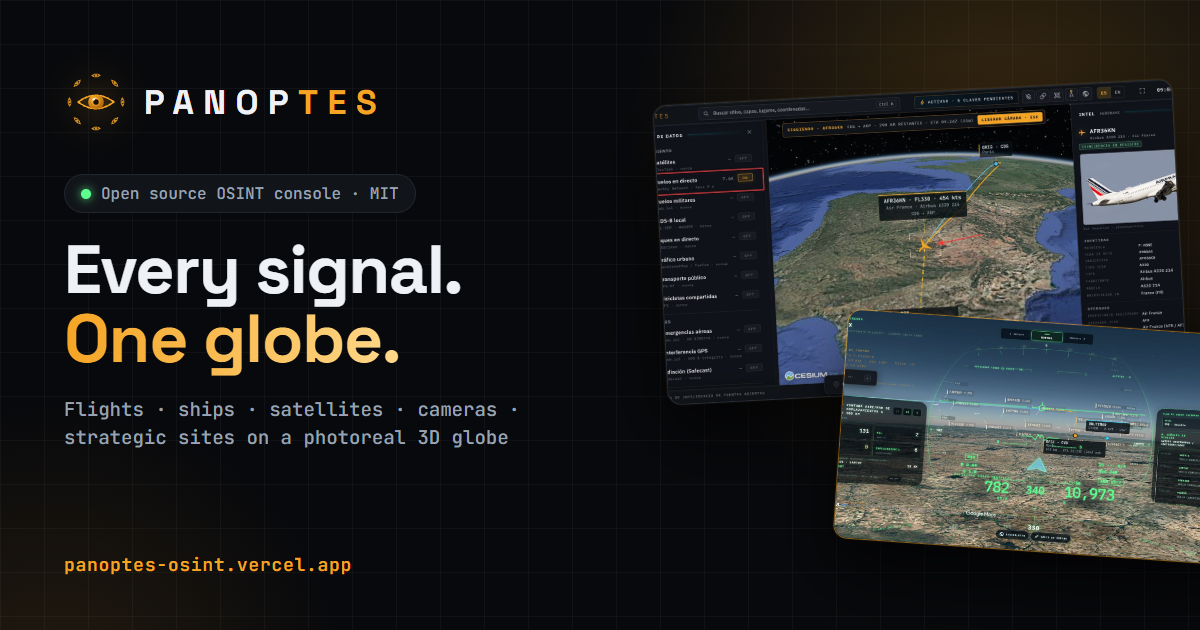
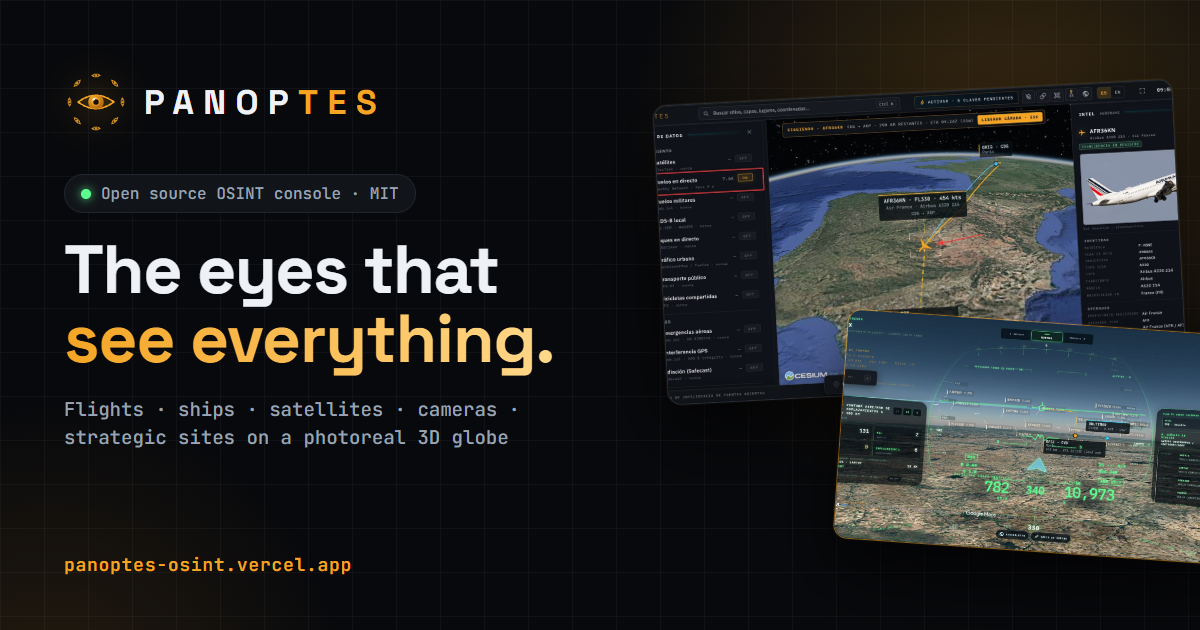
New tagline: Los ojos que todo lo ven / The eyes that see everything

Changed region(s): [[0.0308, 0.3921, 0.4625, 0.6032]]

diff --git a/landing/index.html b/landing/index.html
@@ -6,16 +6,16 @@
   <title>PANOPTES · Consola OSINT open source sobre un globo 3D</title>
   <meta name="description" content="PANOPTES: consola de inteligencia de fuentes abiertas. Vuelos, buques, satélites, cámaras públicas, bases militares e infraestructura crítica en un globo 3D fotorrealista que corre en tu máquina." />
   <meta name="theme-color" content="#08090c" />
-  <meta property="og:title" content="PANOPTES · Todas las señales. Un solo globo." />
+  <meta property="og:title" content="PANOPTES · Los ojos que todo lo ven." />
   <meta property="og:description" content="Consola OSINT open source: vuelos, buques, satélites, cámaras y capas estratégicas en un globo 3D fotorrealista." />
   <meta property="og:image" content="https://panoptes-osint.vercel.app/assets/og.png" />
   <meta property="og:image:width" content="1200" />
   <meta property="og:image:height" content="630" />
-  <meta property="og:image:alt" content="PANOPTES · Every signal. One globe." />
+  <meta property="og:image:alt" content="PANOPTES · The eyes that see everything." />
   <meta property="og:url" content="https://panoptes-osint.vercel.app/" />
   <meta property="og:type" content="website" />
   <meta name="twitter:card" content="summary_large_image" />
-  <meta name="twitter:title" content="PANOPTES · Todas las señales. Un solo globo." />
+  <meta name="twitter:title" content="PANOPTES · Los ojos que todo lo ven." />
   <meta name="twitter:description" content="Consola OSINT open source: vuelos, buques, satélites, cámaras y capas estratégicas en un globo 3D fotorrealista." />
   <meta name="twitter:image" content="https://panoptes-osint.vercel.app/assets/og.png" />
   <link rel="icon" type="image/svg+xml" href="assets/logo.svg" />
@@ -79,8 +79,8 @@
             <span data-i18n="hero.pill">Open source · MIT · corre en tu máquina</span>
           </div>
           <h1 class="rv">
-            <span data-i18n="hero.title1">Todas las señales.</span><br />
-            <span class="grad" data-i18n="hero.title2">Un solo globo.</span>
+            <span data-i18n="hero.title1">Los ojos que</span><br />
+            <span class="grad" data-i18n="hero.title2">todo lo ven.</span>
           </h1>
           <p class="hero-sub rv" data-i18n="hero.sub">
             PANOPTES es una consola de inteligencia de fuentes abiertas: vuelos, buques, satélites, cámaras públicas, bases militares, centrales nucleares e infraestructura crítica sobre un globo 3D fotorrealista. Sin cuentas, sin servidores ajenos, sin cajas negras.
@@ -420,7 +420,7 @@
   <footer class="footer">
     <div class="wrap foot">
       <div class="brand"><img src="assets/logo.svg" alt="" width="28" height="28" /><span class="brand-text">PANOP<span class="acc">TES</span></span></div>
-      <p class="mono foot-mid" data-i18n="foot.p">Todas las señales. Un solo globo. · Licencia MIT</p>
+      <p class="mono foot-mid" data-i18n="foot.p">Los ojos que todo lo ven. · Licencia MIT</p>
       <div class="foot-links">
         <a href="https://github.com/afsh4ck/panoptes" target="_blank" rel="noopener" aria-label="GitHub"><i class="ph ph-github-logo"></i></a>
         <a href="https://github.com/afsh4ck/panoptes/issues" target="_blank" rel="noopener" aria-label="Issues"><i class="ph ph-bug"></i></a>

diff --git a/landing/app.js b/landing/app.js
@@ -27,8 +27,8 @@
     'nav.gallery': 'Gallery',
     'nav.install': 'Install',
     'hero.pill': 'Open source · MIT · runs on your machine',
-    'hero.title1': 'Every signal.',
-    'hero.title2': 'One globe.',
+    'hero.title1': 'The eyes that',
+    'hero.title2': 'see everything.',
     'hero.sub':
       'PANOPTES is an open-source intelligence console: flights, ships, satellites, public cameras, military bases, nuclear sites and critical infrastructure on one photorealistic 3D globe. No accounts, no third-party servers, no black boxes.',
     'hero.cta1': 'View on GitHub',
@@ -210,7 +210,7 @@
       'Clone it, start it and see the planet like never before. If you like it, a star helps more people find it.',
     'fin.cta': 'Give it a star',
     'fin.cta2': 'Install',
-    'foot.p': 'Every signal. One globe. · MIT License',
+    'foot.p': 'The eyes that see everything. · MIT License',
   };
   var nodes = Array.prototype.slice.call(
     document.querySelectorAll('[data-i18n]'),

diff --git a/README.md b/README.md
@@ -4,7 +4,7 @@
 
 # PANOPTES
 
-### Every signal. One globe.
+### The eyes that see everything.
 
 **An open-source geospatial intelligence console.** Live aircraft, ships and
 satellites, conflict and disaster events, military bases, nuclear sites and
@@ -600,6 +600,6 @@ product of a similar name.
 
 <div align="center">
 
-**PANOPTES. Every signal. One globe.**
+**PANOPTES. The eyes that see everything.**
 
 </div>
